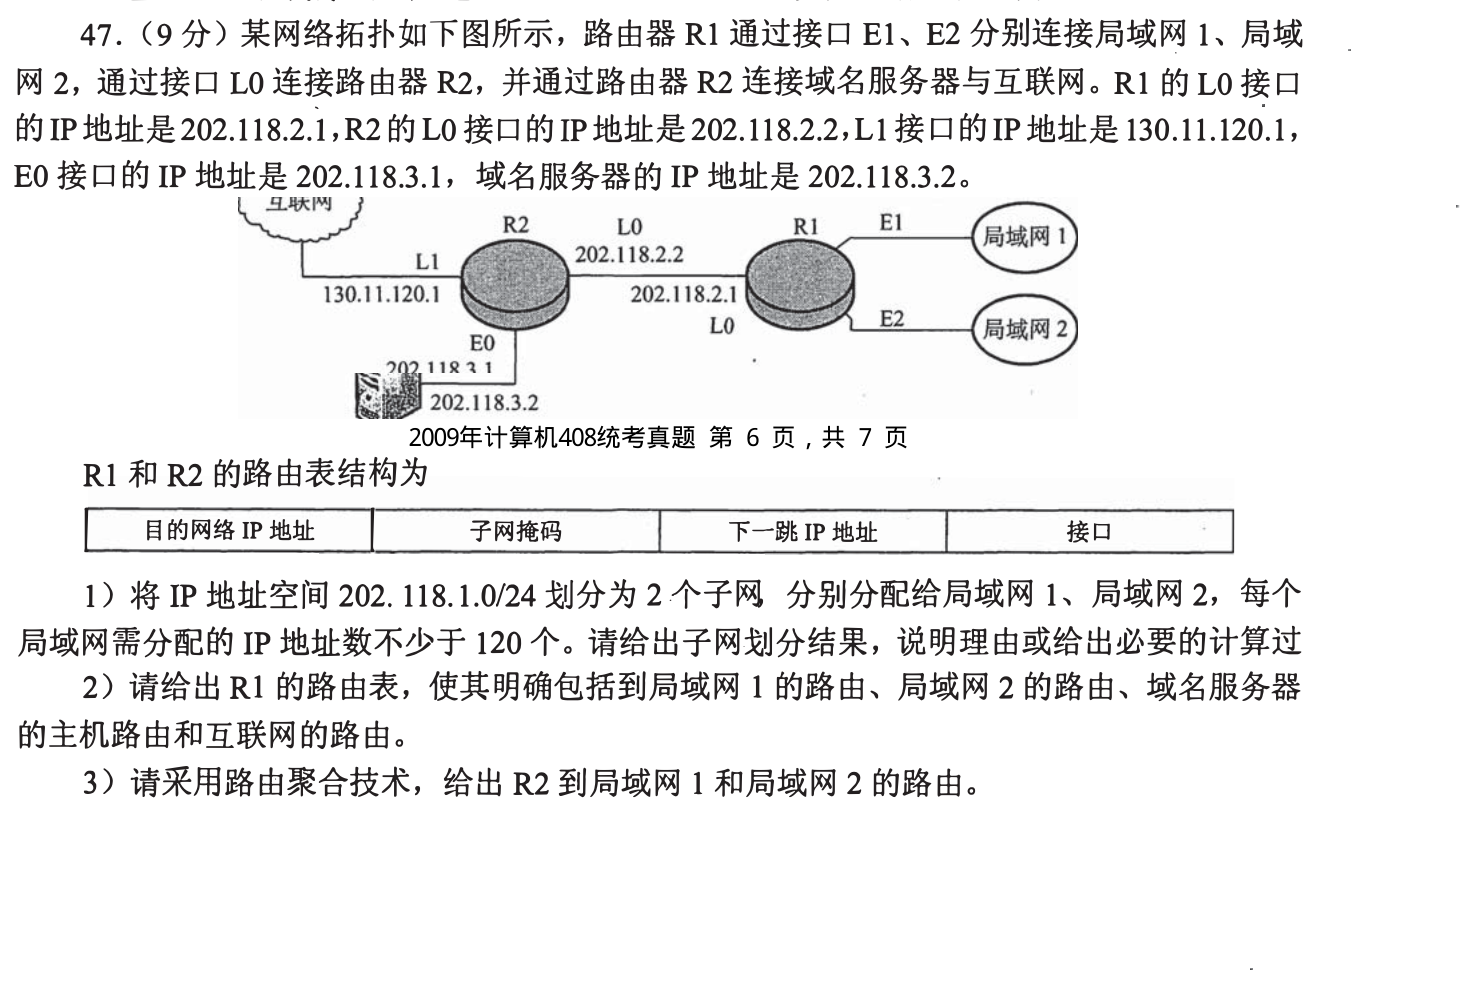
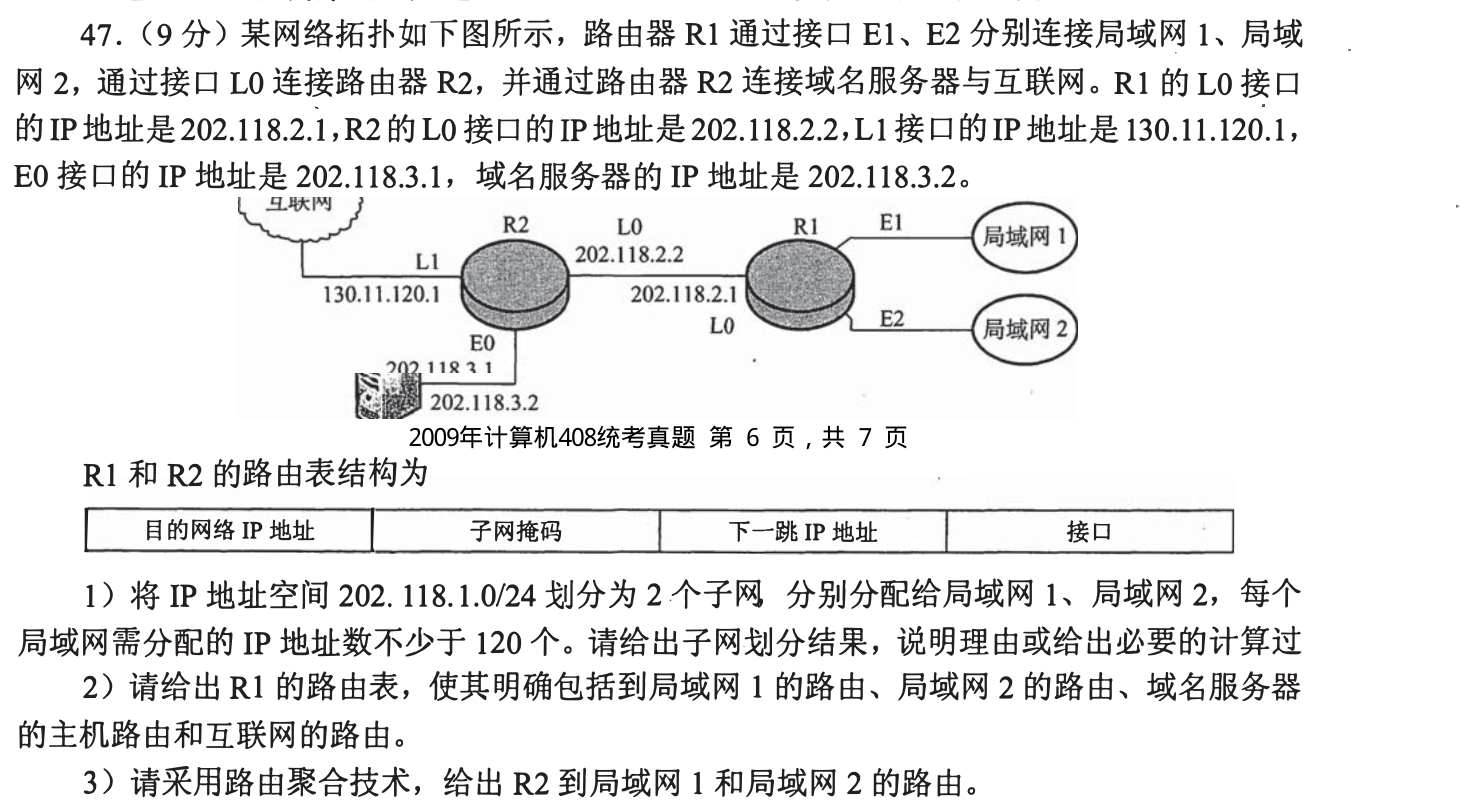
questions: finish safe written-image cropping
Implemented:
- restored 2017-41 and 2013-44 from reviewed PDF boundaries
- removed isolated trailing page footers and bottom whitespace without deleting internal rows
- recorded dimensions and changed files in a crop audit

Why:
- large-question pages retained page numbers and excessive tail whitespace
- sparse diagrams and question internals must remain intact

Verified:
- 119 written-question PNG files decode successfully
- crop audit covers every 2009-2025 question 41-47
- full Python unit test suite passes

Generated with Codex

Changed region(s): [[0.0, 0.0, 0.9056, 0.8621], [0.0, 0.8929, 0.6558, 0.9852]]

diff --git a/src/0919.md b/src/0919.md
@@ -53,7 +53,7 @@
 ### 07 · 2025-44
 
 <div style="max-width:100%; max-height:min(90vh, 72em); overflow:auto;">
-<img src="../bank/2025/q44.png" alt="2025-44" style="display:block; width:31.06em; max-width:none; height:auto;">
+<img src="../bank/2025/q44.png" alt="2025-44" style="display:block; width:30.88em; max-width:none; height:auto;">
 </div>
 
 [← 0918](0918.md) · [总索引](README.md) · [0920 →](0920.md)

diff --git a/src/0915.md b/src/0915.md
@@ -29,7 +29,7 @@
 ### 03 · 2017-41
 
 <div style="max-width:100%; max-height:min(90vh, 72em); overflow:auto;">
-<img src="../bank/2017/q41.png" alt="2017-41" style="display:block; width:34.88em; max-width:none; height:auto;">
+<img src="../bank/2017/q41.png" alt="2017-41" style="display:block; width:36em; max-width:none; height:auto;">
 </div>
 
 ### 04 · 2020-42
